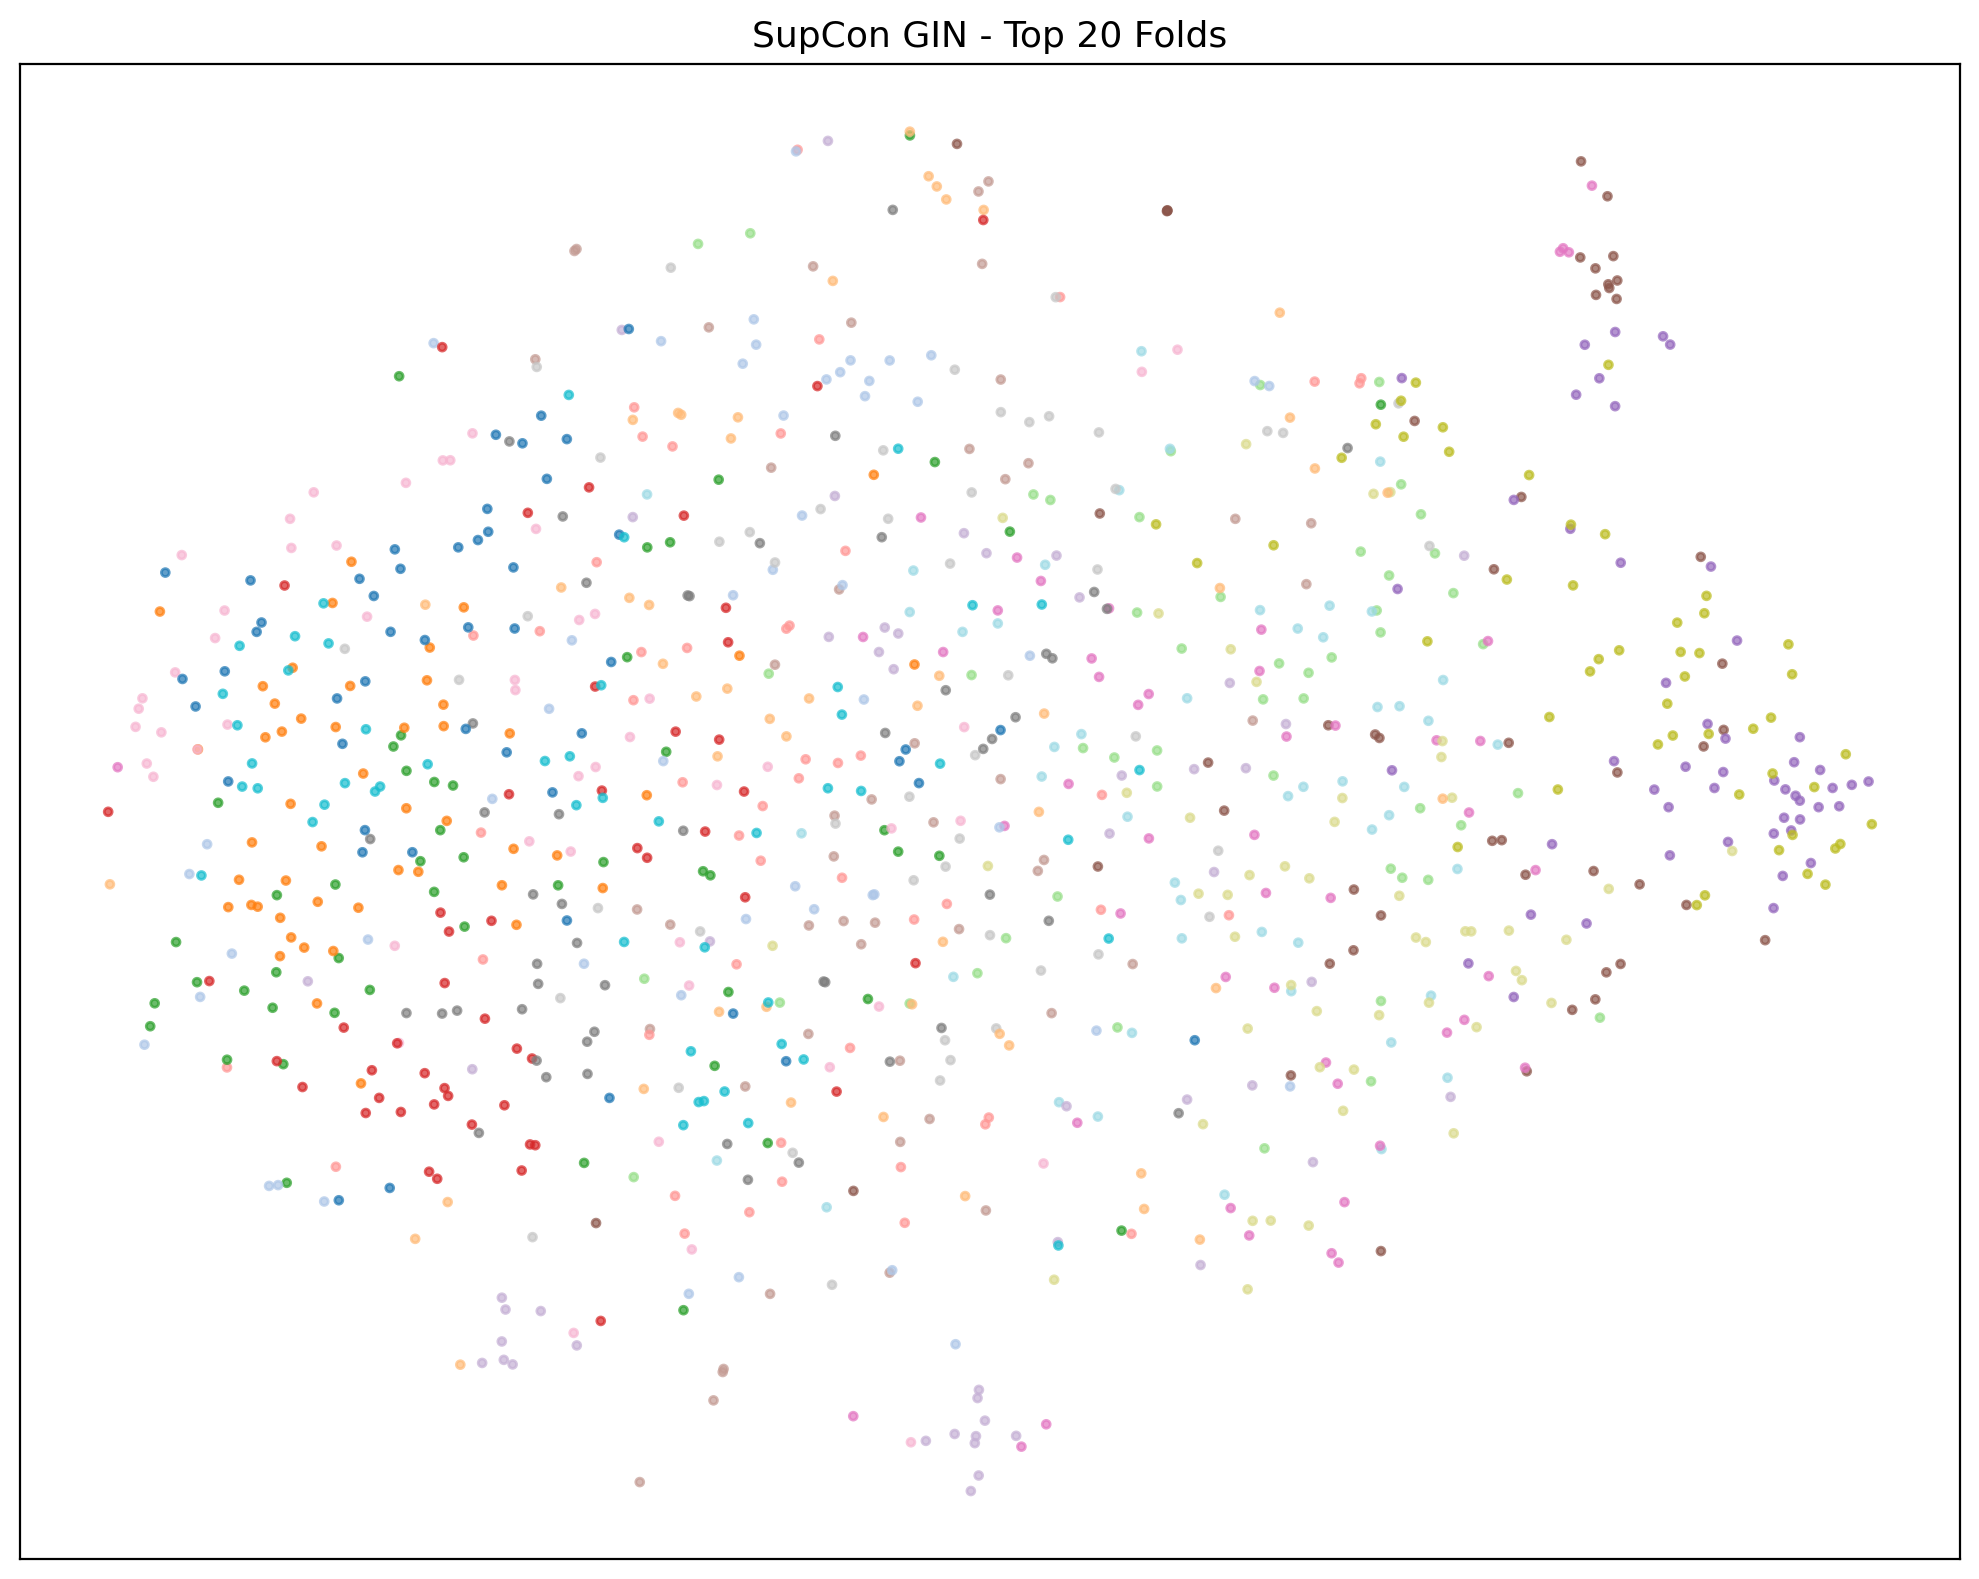
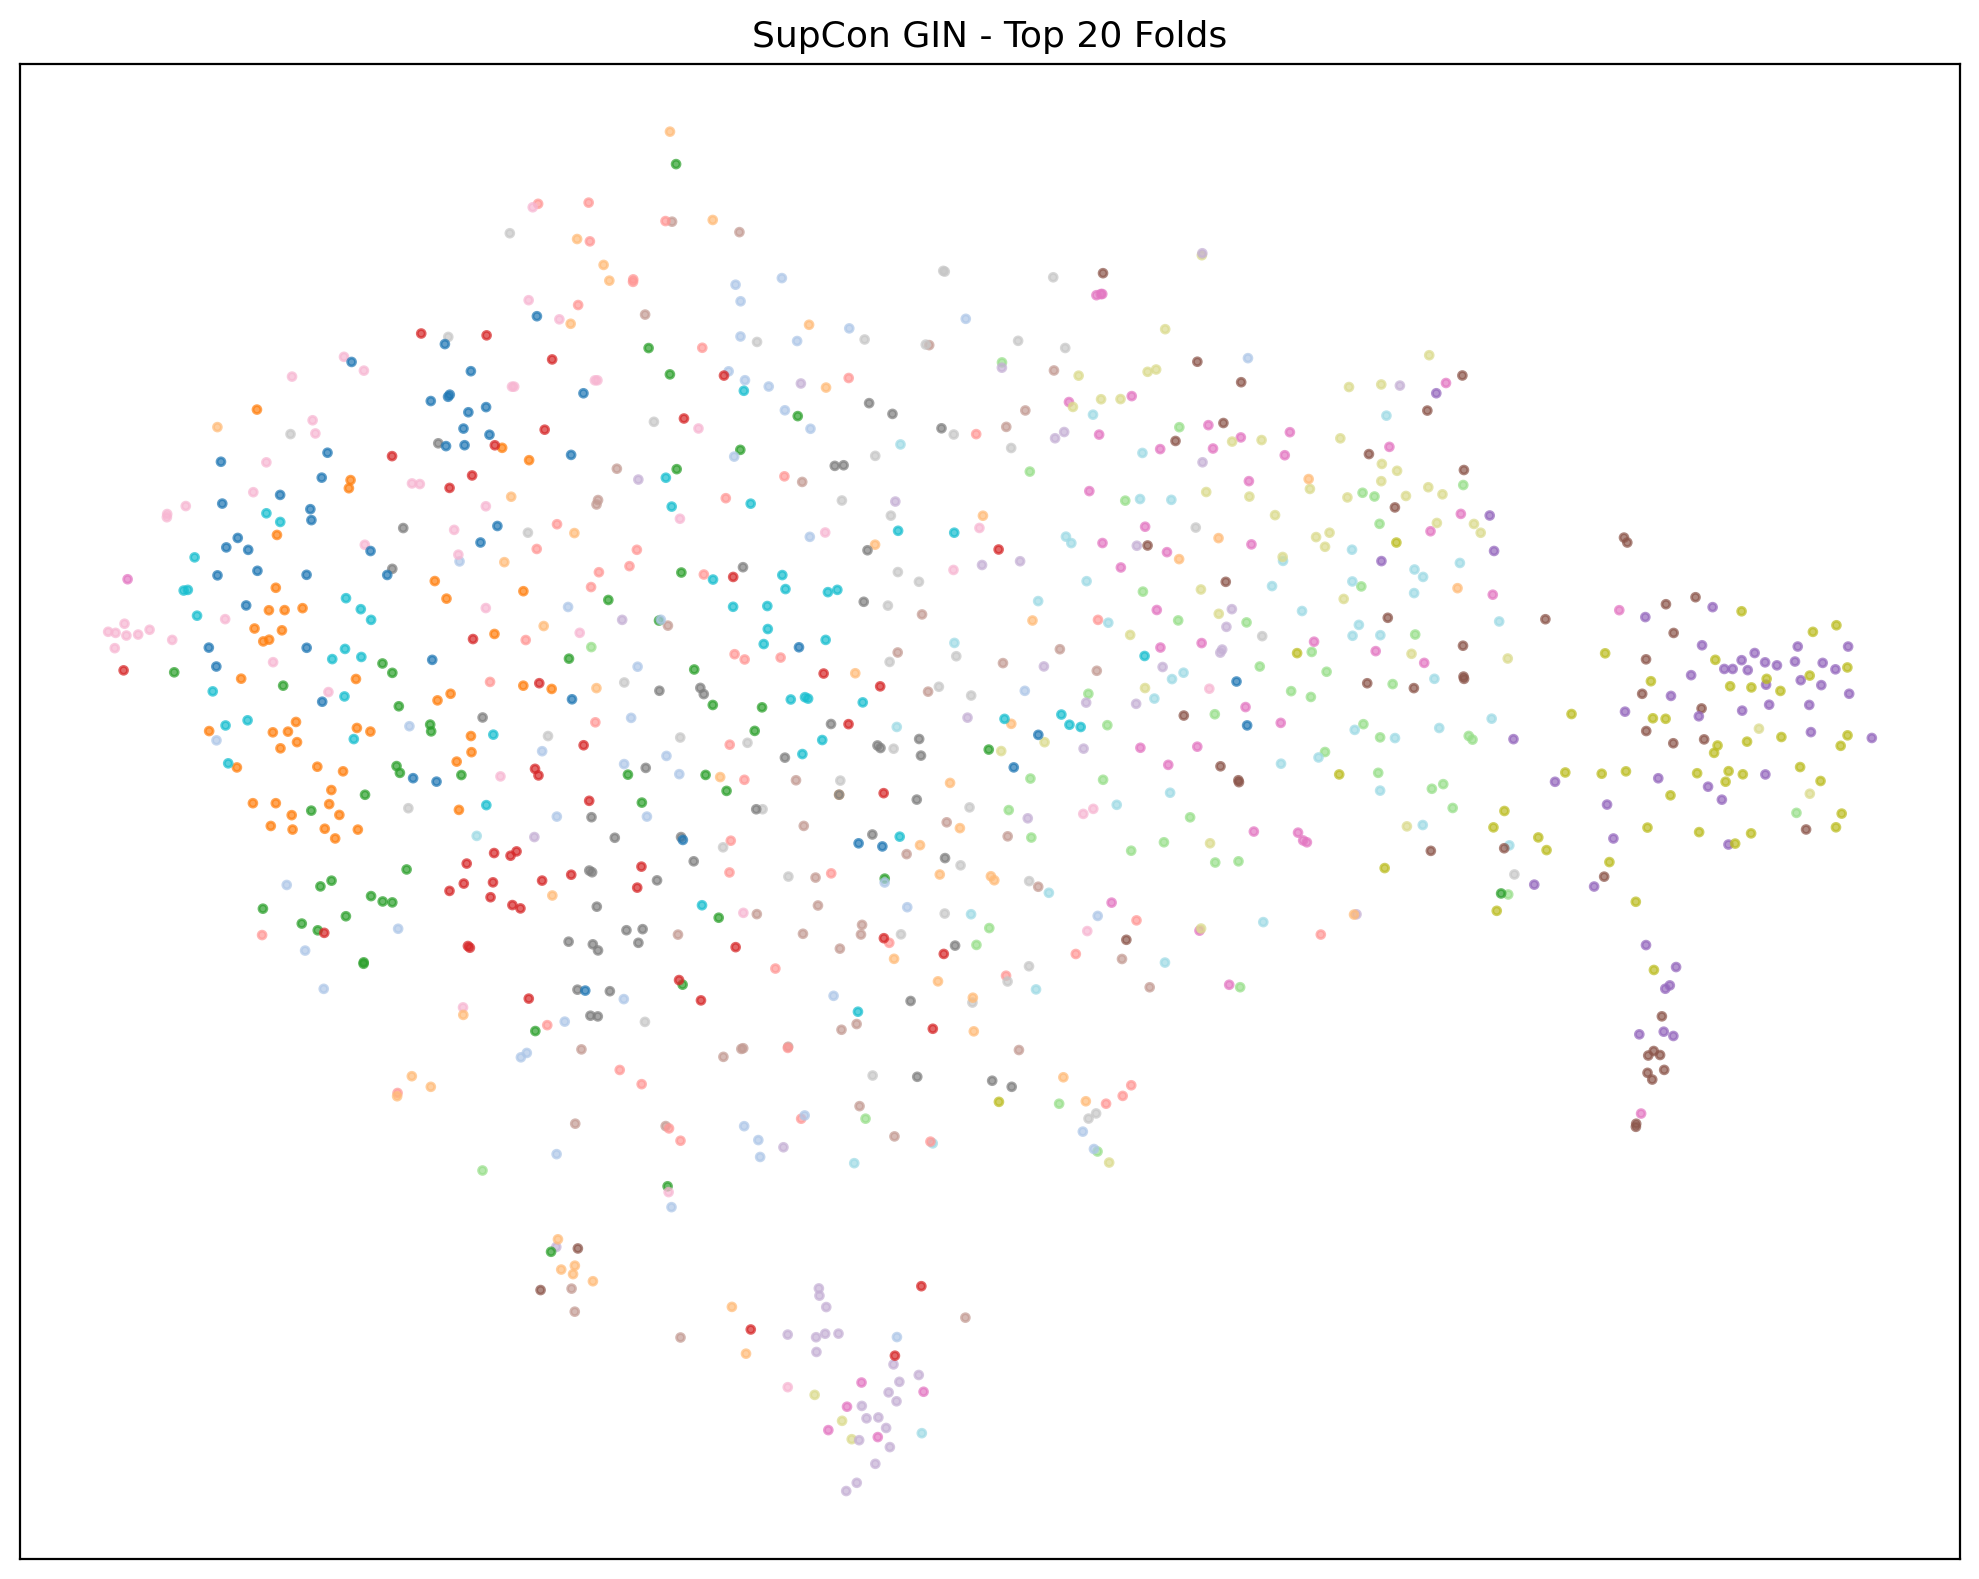
commit

diff --git a/train_hierarchical.py b/train_hierarchical.py
@@ -21,9 +21,9 @@ from hierarchy import affinity
 device = torch.device('cuda' if torch.cuda.is_available() else 'cpu')
 print(f"Device: {torch.cuda.get_device_name(0) if torch.cuda.is_available() else 'CPU'}")
 
-TRAIN = True
+TRAIN = False
 FINE_TUNE = True
-VISUALIZE = True
+VISUALIZE = False
 data = Dataset(root='data/cath', min_fold_count=10, radius=8.0, max_len=600)
 print(data[0].f)
 label = []
@@ -166,7 +166,7 @@ if FINE_TUNE:
     optimizer_lin = optim.AdamW((list(encoder.parameters()) + list(linear.parameters())), lr=1e-4, weight_decay=1e-4)
     criterion_lin = nn.CrossEntropyLoss()
 
-    for epoch in range(200):
+    for epoch in range(350):
         encoder.train()
         linear.train()
 